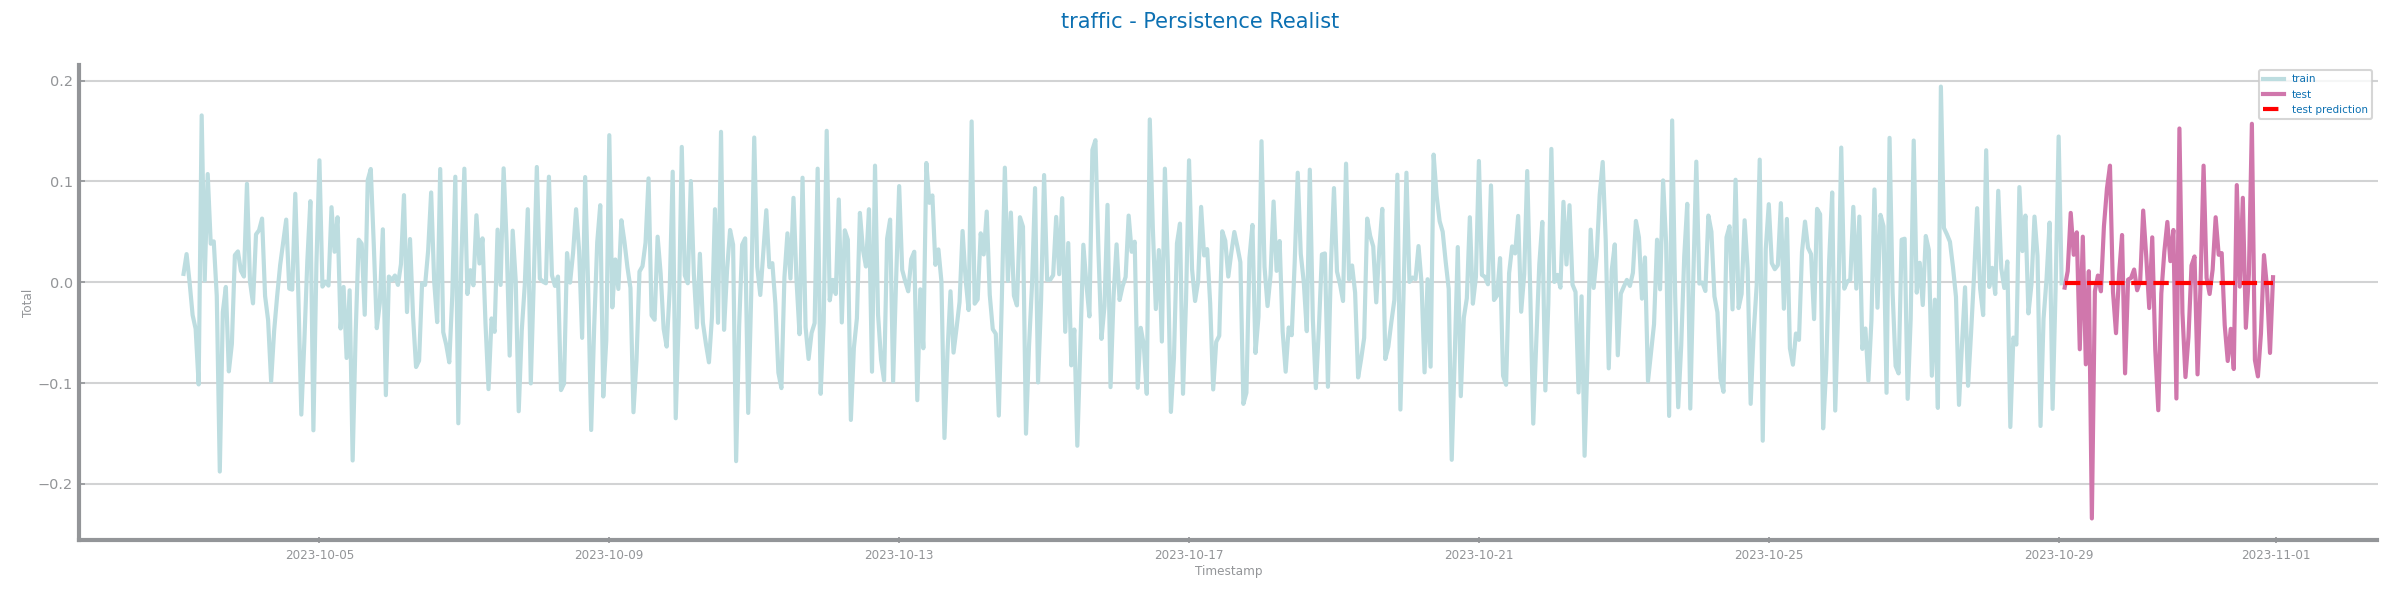
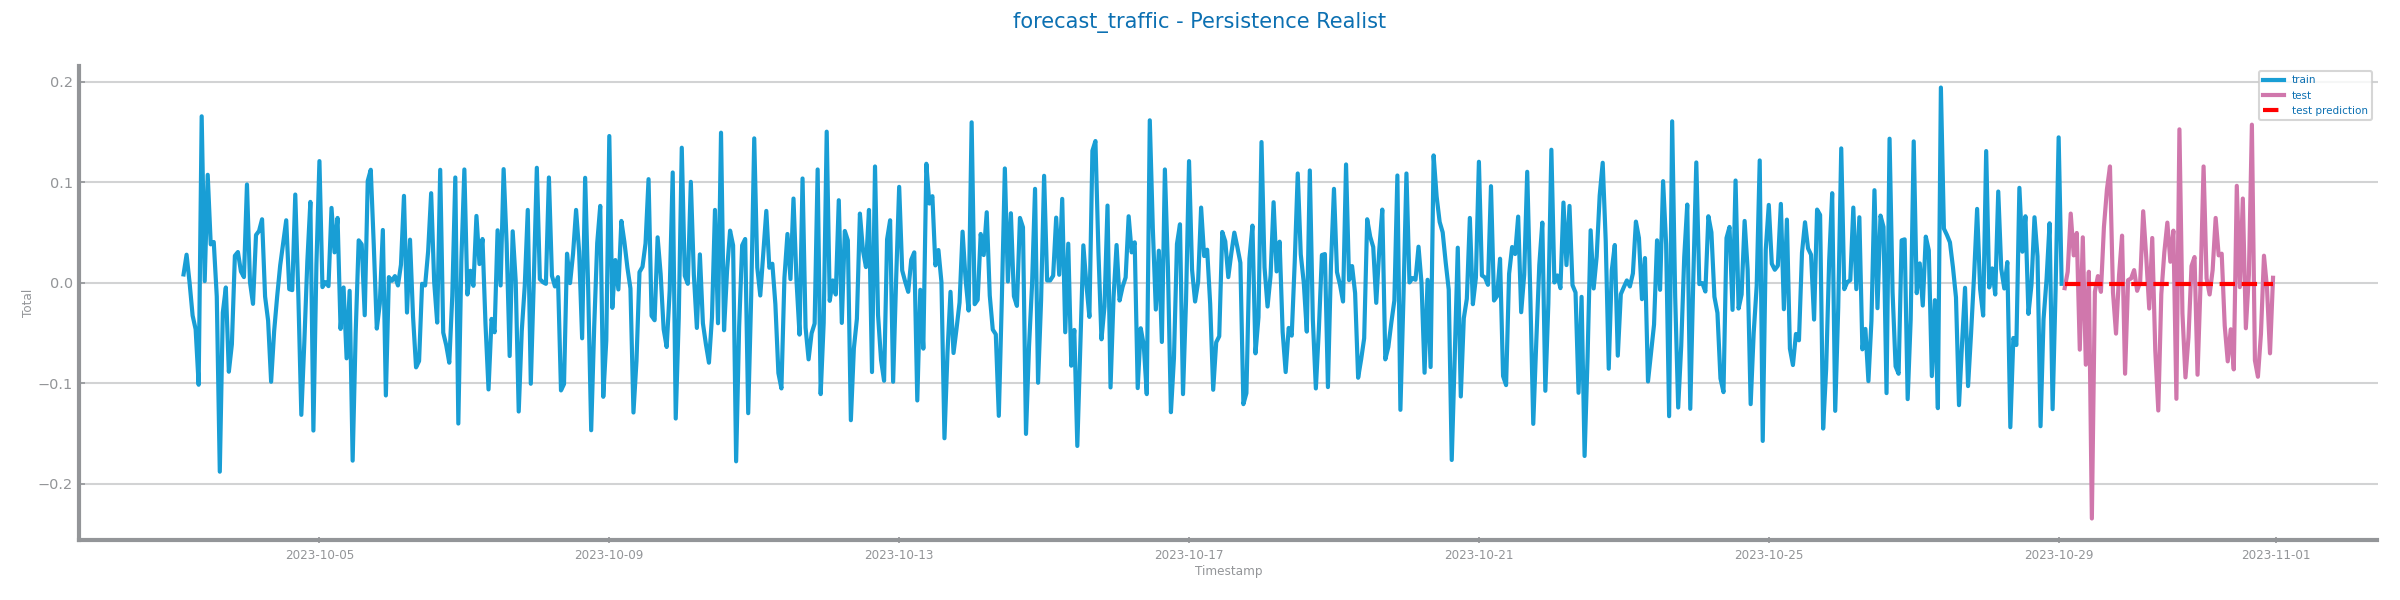
Updated file names to add "forecast_"

diff --git a/forecasting/models/traffic/lstms.py b/forecasting/models/traffic/lstms.py
@@ -1,8 +1,10 @@
 import matplotlib.pyplot as plt
+import torch
 from pandas import read_csv, DataFrame, Series
 
-from forecasting.models.DS_LSTM import DS_LSTM, prepare_dataset_for_lstm
-from utils.dslabs_functions import series_train_test_split, lstm_study, plot_forecasting_eval, plot_forecasting_series
+from utils.dslabs_functions import series_train_test_split
+from utils.dslabs_functions2 import DS_LSTM, prepare_dataset_for_lstm, lstm_study
+from utils.dslabs_functions_prof import plot_forecasting_eval, plot_forecasting_series
 
 traffic_filename: str = "../../data/traffic/processed_data/forecast_traffic_second_diff.csv"
 traffic_file_tag: str = "forecast_traffic"
@@ -13,10 +15,6 @@ traffic_data: DataFrame = read_csv(traffic_filename, index_col=index_col, parse_
 
 series: Series = traffic_data[target]
 train, test = series_train_test_split(series, trn_pct=0.90)
-
-model = DS_LSTM(train, input_size=1, hidden_size=50, num_layers=1)
-loss = model.fit()
-print(loss)
 
 best_model, best_params = lstm_study(train, test, nr_episodes=3000, measure=measure)
 

diff --git a/forecasting/models/covid/lstms.py b/forecasting/models/covid/lstms.py
@@ -13,14 +13,8 @@ target: str = "deaths"
 measure: str = "R2"
 covid_data: DataFrame = read_csv(covid_filename, index_col=timecol, parse_dates=True, infer_datetime_format=True)
 
-torch.set_default_device('cuda')
-
 series: Series = covid_data[target]
 train, test = series_train_test_split(series, trn_pct=0.90)
-
-model = DS_LSTM(train, input_size=1, hidden_size=50, num_layers=1)
-loss = model.fit()
-print(loss)
 
 best_model, best_params = lstm_study(train, test, nr_episodes=3000, measure=measure)
 
